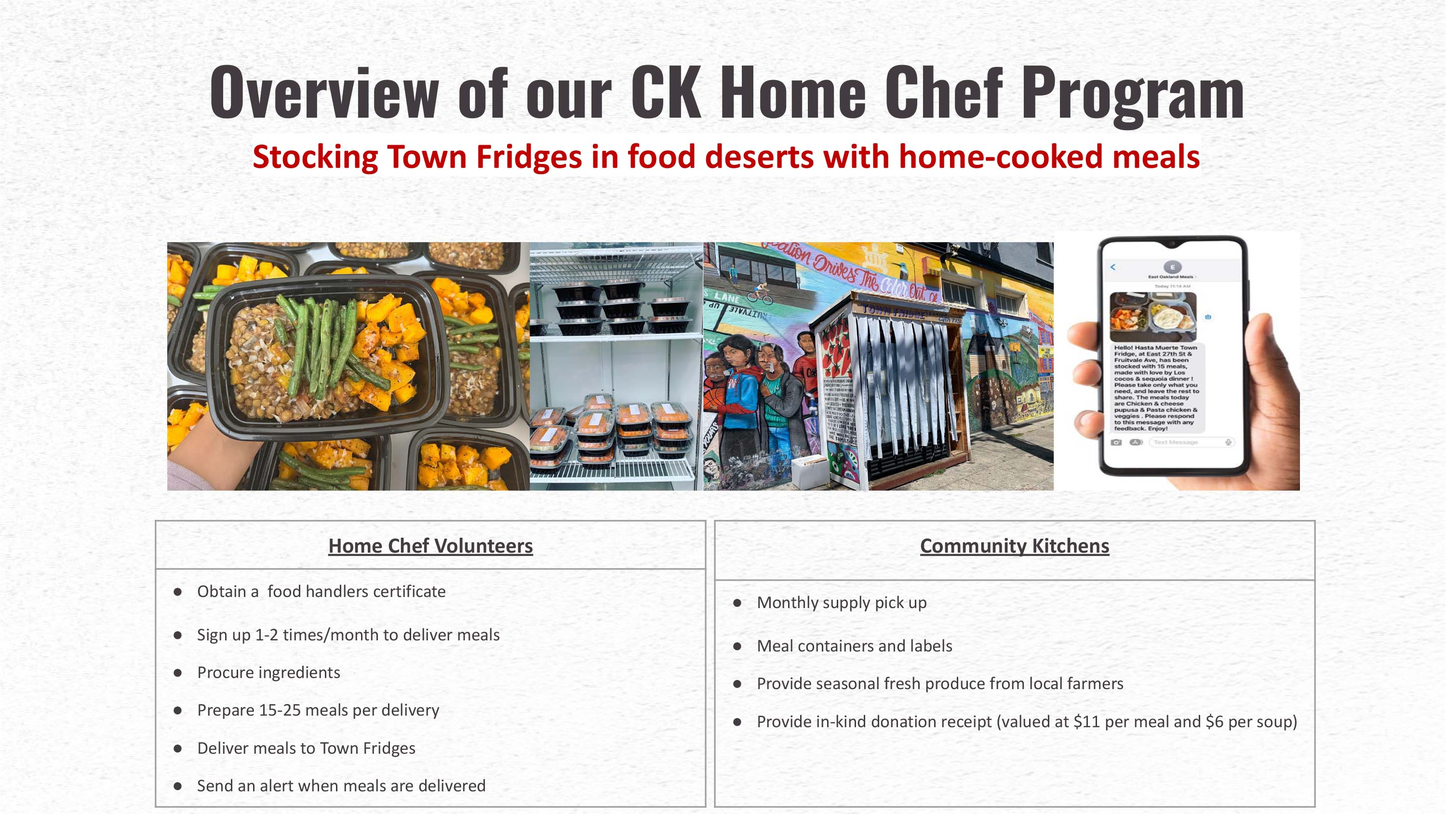
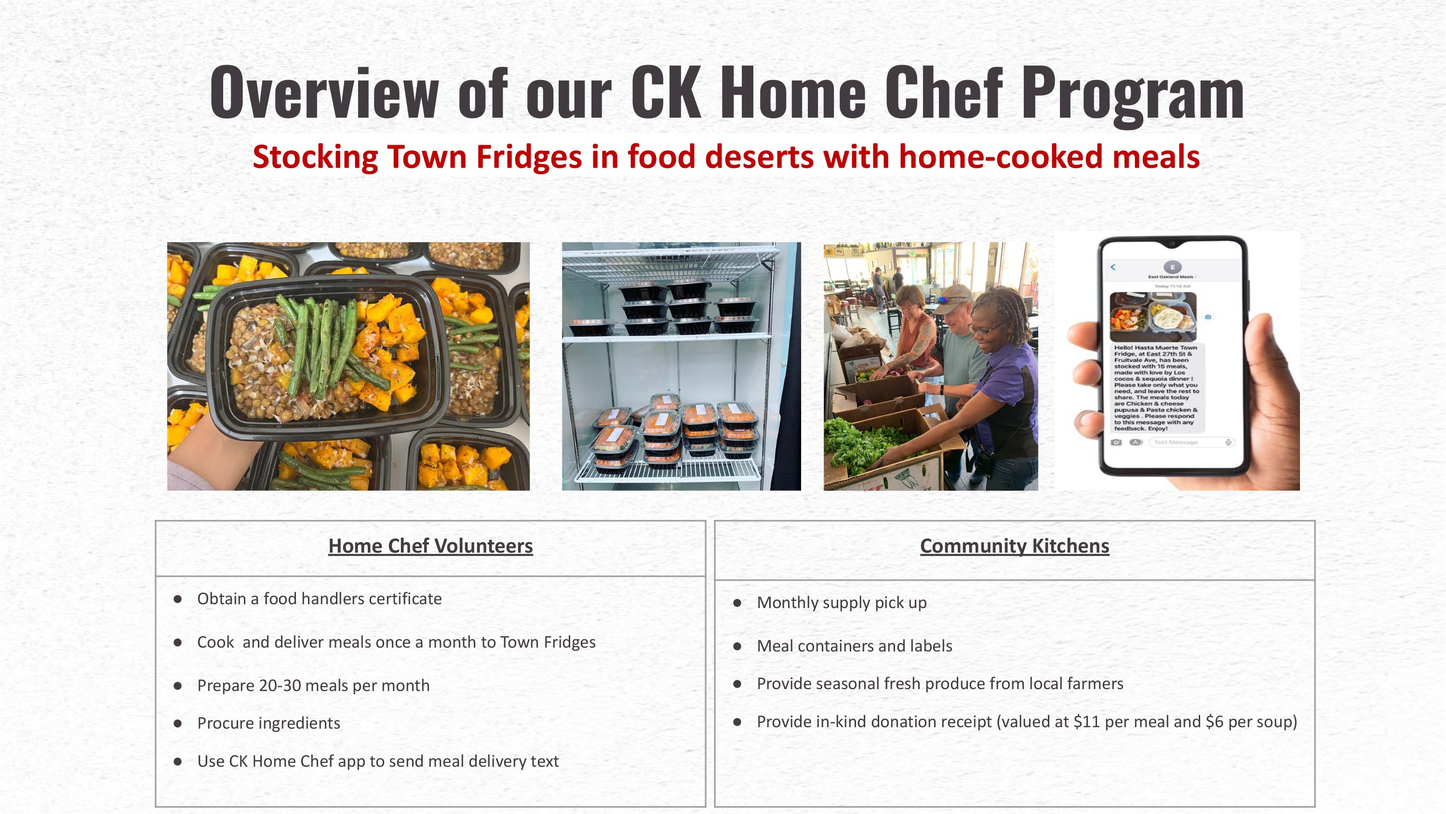
update home chef orientation

Changed region(s): [[0.341, 0.2773, 0.744, 0.6161], [0.124, 0.7701, 0.403, 0.9858], [0.124, 0.6777, 0.465, 0.7393]]

diff --git a/src/components/auth/DeleteD4JAccount.tsx b/src/components/auth/DeleteD4JAccount.tsx
@@ -38,7 +38,10 @@ const DeleteD4JAccount = () => {
     if (email) {
       return (
         <div>
-          <p>You have been emailed a code. Please enter the code here.</p>
+          <p>
+            You have been emailed a code. Please enter the code here to remove
+            your info from CK's database.
+          </p>
           <label htmlFor="code">Code:</label>
           <input
             type="text"
@@ -49,7 +52,9 @@ const DeleteD4JAccount = () => {
           {codeVerificationIsLoading ? (
             <Loading />
           ) : (
-            <button onClick={() => verifyCode({ code, email })}>Submit</button>
+            <button onClick={() => verifyCode({ code, email })}>
+              Delete My Data
+            </button>
           )}
         </div>
       );
@@ -60,7 +65,9 @@ const DeleteD4JAccount = () => {
     if (email) {
       return (
         <div>
-          <p>To delete your data, click below</p>
+          <p>To delete your data, click below.</p>
+          <h5>Email: {email}</h5>
+
           {codeGenerationIsLoading ? (
             <Loading />
           ) : (
@@ -72,8 +79,15 @@ const DeleteD4JAccount = () => {
   };
 
   const renderForm = () => {
-    if (generateCodeError || verifyCodeError || !email) {
-      return <p>An error has occurred.</p>;
+    if (generateCodeError) {
+      return (
+        <div>
+          <p>No user data found for email:</p> <h5>{email}</h5>
+        </div>
+      );
+    }
+    if (verifyCodeError) {
+      return <p>Incorrect code</p>;
     }
 
     if (!codeGenerated) {

diff --git a/src/components/homeChef/onboarding/OrientationSlides.tsx b/src/components/homeChef/onboarding/OrientationSlides.tsx
@@ -5,7 +5,7 @@ import './Orientation.css';
 const OrientationSlides = () => {
   const renderSlides = () => {
     const images = [];
-    for (let i = 1; i <= 21; i++) {
+    for (let i = 1; i <= 20; i++) {
       images.push(
         <a
           href={`https://portal.ckoakland.org/images/home-chef/orientation-slides/slide-${i}.jpg`}

diff --git a/src/components/homeChef/onboarding/OrientationVideo.tsx b/src/components/homeChef/onboarding/OrientationVideo.tsx
@@ -2,7 +2,7 @@ import { Link } from 'react-router-dom';
 
 import './Orientation.css';
 
-const VIDEO_NAME = 'Orientation_April2024.mp4';
+const VIDEO_NAME = 'orientation_june_2024.mp4';
 
 const OrientationVideo = () => {
   return (
